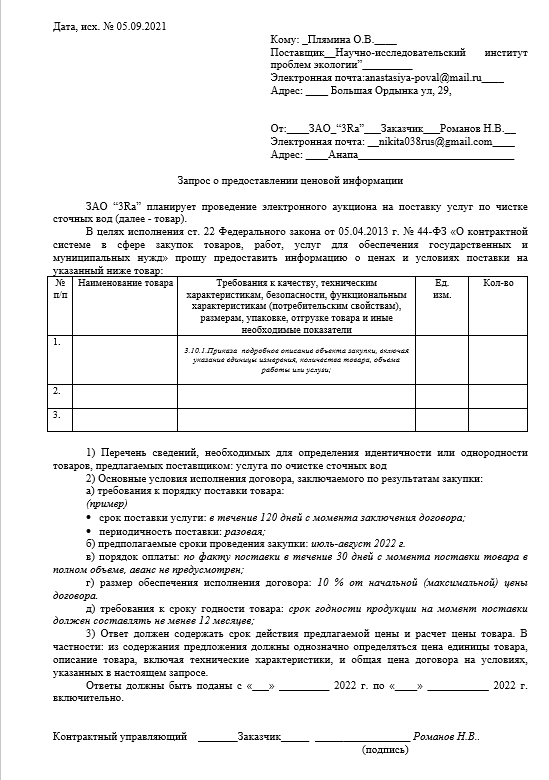
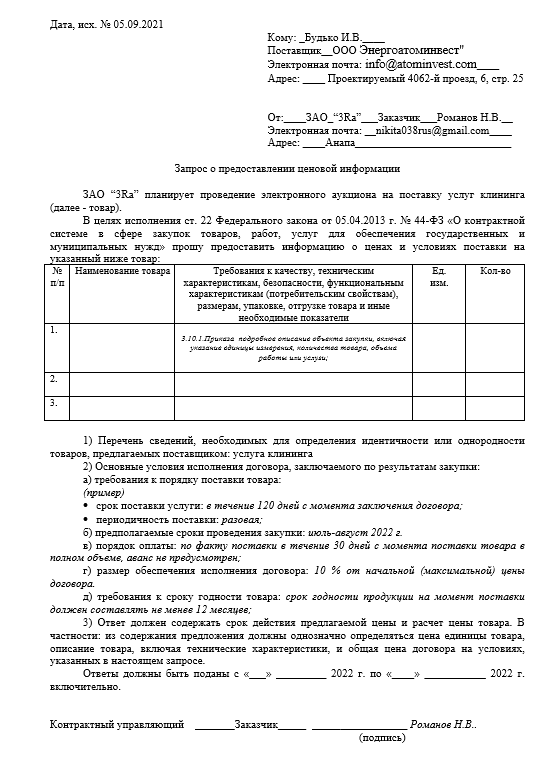
Add files via upload

diff --git a/src/pages/agent_list.js b/src/pages/agent_list.js
@@ -1,107 +1,44 @@
 let agent_list = [
   {
-    full_name: 'Акционерное общество "Далгакыран-М"',
-    alias: 'АО "Далгакыран-М"',
-    surname: "",
-    name: "",
-    middle_name: "",
-    position: "",
-    INN: "7725529877",
-    KPP: "772601001",
-    OKPO: "76030966",
-    mail_adress: "Варшавское ш, 148, пом. 705, этаж 7",
-    doc_adress: "Варшавское ш, 148, пом. 705, этаж 7",
-    real_adress: "",
-    phone: "(495) 6642015",
-    email: "anton.kirillov@dalgakiran.com",
-    web_page: "http://dalgakiran.su/",
-    payment_acc: "",
-    corresp_acc: "",
-    BIK: "",
-    bank_name: "",
+    BIK: "044525823",
+    INN: "4027055893",
+    KPP: "772501001",
+    OKPO: "25922386",
+    alias: 'ООО "Энергоатоминвест"',
     bank_adress: "",
-    contacts:
-      "Свистов Алексей Евгеньевич, Ведущий специвлист, 977 3440016, , \nСвистов Алексей Викторович, Ведущий специалист по тендерам, (495) 6642015, , \nСвистов Алексей Викторович, Директор по финансам и планированию, (495) 6642015, , ",
+    bank_name: "ОАО «ГПБ» ",
+    capital: "4 716 409 695,33 руб.",
+    concurents_list: ['МУП "Балаково-Водоканал"'],
+    contacts: "Дьякова Ольга Михайловна\n",
+    corresp_acc: "30101810200000000823",
+    doc_adress: "Проектируемый 4062-й проезд, 6, стр. 25",
+    email: "info@atominvest.com",
+    full_name: 'Общество с ограниченной ответственностью "Энергоатоминвест"',
+    mail_adress:
+      "109147, г. Москва, ул. Марксистская, д. 9, Московский межрайонный почтамт № 9, ячейка 9",
+    middle_name: "Витальевич",
+    name: "Игорь",
+    payment_acc: "40702810992000001260",
+    phone: "(495) 6207032",
+    position: "Генеральный директор",
+    real_adress: "Проектируемый 4062-й проезд, 6, стр. 25",
     reliab_lvl: "Высокая",
-    status: "Действующая организация",
-    capital: "10 750 000 руб.",
-    concurents_list: ['ООО "ЧКЗ"', 'АО "Уралкомпрессормаш"', 'ООО "Айртехно"'],
     state_oreders_list: [
-      "Депстройэнергетики и ЖКК Югры (1 контракт на 10 890 528 руб.)",
-      "Департамент Культуры Города Москвы (1 контракт на 5 560 500 руб.)",
-      'АО "Кэмз" (1 контракт на 5 266 800 руб.)',
-      'ООО "Ирз-Энерго" (1 контракт на 4 465 000 руб.)',
-      'АО "НПО Энергомаш" (1 контракт на 4 037 327 руб.)',
+      'АО "Концерн Росэнергоатом" (1 контракт на 728 297 260 руб.)',
+      'ООО "Ленинградская Аэс-Авто" (2 контракта на 23 112 607 руб.)',
+      'ООО "Балаковская Аэс - Авто" (1 контракт на 17 194 800 руб.)',
+      'ООО "Смоленская Аэс-Сервис" (1 контракт на 4 495 890 руб.)',
+      'ООО "Белоярская Аэс- Авто" (1 контракт на 610 659 руб.)',
+      'ООО "Калининская Аэс-Сервис" (1 контракт на 52 800 000 руб.)',
+      'ООО "Белоярская Аэс- Авто" (1 контракт на 52 800 000 руб.)',
+      'АО "Автотехком" (1 контракт на 42 590 000 руб.)',
+      'ООО ТД "Кинг Лонг" (1 контракт на 42 120 000 руб.)',
+      'ООО ТЦ "Русский Автобус" (1 контракт на 39 900 000 руб.)',
     ],
-  },
-  {
-    full_name:
-      'Федеральное бюджетное учреждение здравоохранения "Центр гигиены и эпидемиологии в Волгоградской области"',
-    alias: 'ФБУЗ "Центр гигиены и эпидемиологии в Волгоградской области"',
-    surname: "",
-    name: "",
-    middle_name: "",
-    position: "",
-    INN: "3443063870",
-    KPP: "344301001",
-    OKPO: "76874256",
-    mail_adress: "Ангарская ул, 13Б",
-    doc_adress: "Ангарская ул, 13Б",
-    real_adress: "",
-    phone: "(8844) 372674",
-    email: "info@fguz-volgograd.ru",
-    web_page: "",
-    payment_acc: "",
-    corresp_acc: "",
-    BIK: "",
-    bank_name: "",
-    bank_adress: "",
-    contacts: "",
-    reliab_lvl: "",
-    status: "",
-    capital: "",
-    concurents_list: "",
-    state_oreders_list: "",
-  },
-  {
-    full_name:
-      'Автономная некоммерческая организация "Научно-исследовательский институт проблем экологии"',
-    alias: "НИИПЭ",
-    surname: "",
-    name: "",
-    middle_name: "",
-    position: "",
-    INN: "7705521140",
-    KPP: "770501001",
-    OKPO: "11647271",
-    mail_adress: "Большая Ордынка ул, 29, 1",
-    doc_adress: "Большая Ордынка ул, 29, 1",
-    real_adress: "",
-    phone: "925 1885597",
-    email: "anastasiya-poval@mail.ru",
-    web_page: "",
-    payment_acc: "",
-    corresp_acc: "",
-    BIK: "",
-    bank_name: "",
-    bank_adress: "",
-    contacts:
-      "Плямина Ольга Владимировна, Директор, 925 1885597, 925 1885597, ",
-    reliab_lvl: "Высокая",
     status: "Действующая организация",
-    capital: "",
-    concurents_list: [
-      'АО "Раопроект"',
-      'ООО "Ижица-Эксперт"',
-      "Фонд им. В. И. Вернадского",
-    ],
-    state_oreders_list: [
-      'Госкорпорация "Росатом" (19 контрактов на 128 863 847 руб.)',
-      'АО "Концерн Росэнергоатом" (24 контракта на 114 441 843 руб.)',
-      'АО "Твэл" (5 контрактов на 39 803 673 руб.)',
-      'ФГУП "ФЭО" (3 контракта на 35 093 598 руб.)',
-      'ФГУП "НО РАО" (8 контрактов на 34 155 795 руб.)',
-    ],
+    surname: "Будько",
+    web_page: "",
   },
 ];
+
 export default agent_list;

diff --git a/src/components/ExecutorList/index.js b/src/components/ExecutorList/index.js
@@ -1,17 +1,18 @@
 import React from "react";
 import ExecutorItem from "../ExecutorItem";
 import { StyledGrid } from "../../styles/styles";
-const ExecutorList = ({ agent_list }) => {
+const ExecutorList = ({ companies }) => {
+  console.log(companies.agent_list);
   return (
     <div>
-      {agent_list == undefined ? null : (
+      {companies.agent_list == undefined ? null : (
         <h1 style={{ marginLeft: "20px", color: "#3f66ab" }}>
-          Найдено {agent_list.length} организаций
+          Найдено {companies.agent_list.length} организаций
         </h1>
       )}
       <StyledGrid>
-        {agent_list !== undefined &&
-          agent_list.map((item, index) => (
+        {companies.agent_list !== undefined &&
+          companies.agent_list.map((item, index) => (
             <ExecutorItem item={item} key={index + 1} />
           ))}
       </StyledGrid>

diff --git a/src/pages/Home.js b/src/pages/Home.js
@@ -185,9 +185,9 @@ const Home = () => {
             <Loader />
           </div>
         ) : (
-          <ExecutorList agent_list={agent_list} />
+          <ExecutorList companies={companies} />
         )}
-        {/* <ExecutorList companies={companies} /> */}
+        {/* <ExecutorList agent_list={agent_list} /> */}
       </div>
     </div>
   );
